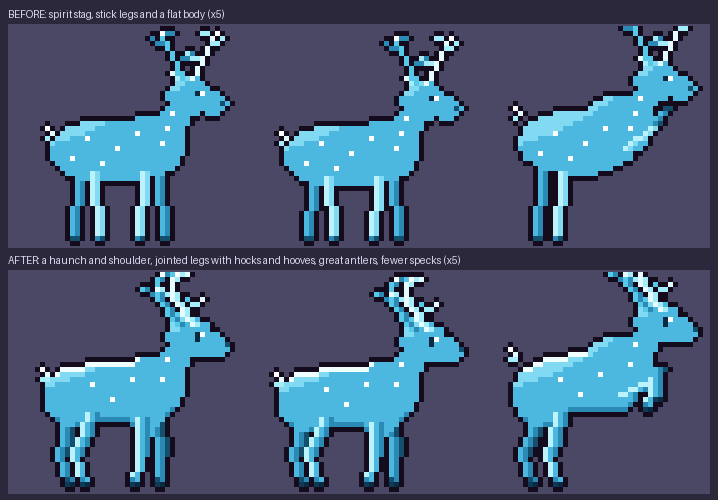
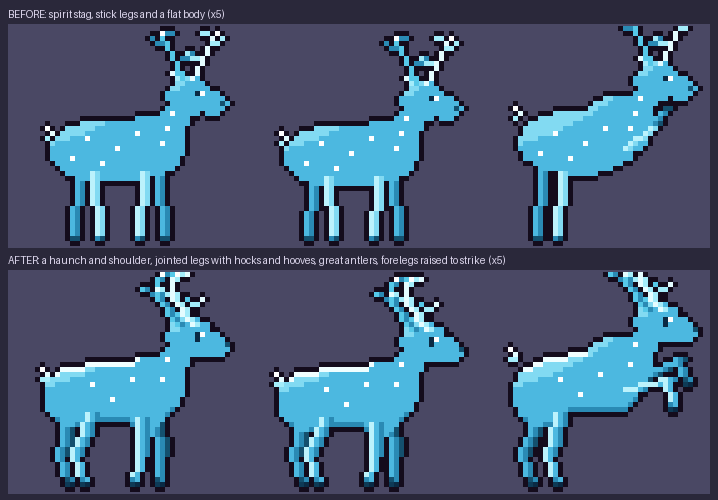
The rearing stag's forelegs come clear of its chest, hooves raised to strike
Claude-Session: https://claude.ai/code/session_01XHk7WXwUp52tGKCfxLyk6o

Changed region(s): [[0.8579, 0.69, 0.9805, 0.84], [0.5209, 0.51, 0.7047, 0.54]]

diff --git a/src/engine/art-hero-spirits.ts b/src/engine/art-hero-spirits.ts
@@ -219,7 +219,7 @@ export function stag(g: Grid, o: { rear?: boolean; bob?: number }): void {
   // far legs first (behind the body)
   if (rear) {
     leg([[11, bodyY + 4], [8, feet - 6], [10, feet]], true);
-    leg([[30, bodyY - 1], [35, bodyY - 5], [35, bodyY + 1]], true);
+    leg([[31, bodyY - 3], [39, bodyY - 7], [41, bodyY - 2]], true);
   } else {
     leg([[11, bodyY + 4], [9, feet - 6], [11, feet]], true);
     leg([[28, bodyY + 5], [29, feet - 6], [29, feet]], true);
@@ -236,7 +236,7 @@ export function stag(g: Grid, o: { rear?: boolean; bob?: number }): void {
   // near legs (in front)
   if (rear) {
     leg([[15, bodyY + 4], [13, feet - 6], [15, feet]], false);
-    leg([[28, bodyY], [34, bodyY - 3], [33, bodyY + 3]], false);
+    leg([[29, bodyY - 1], [37, bodyY - 3], [38, bodyY + 3]], false);
   } else {
     leg([[15, bodyY + 4], [12, feet - 6], [14, feet]], false);
     leg([[25, bodyY + 5], [25, feet - 6], [24, feet]], false);
